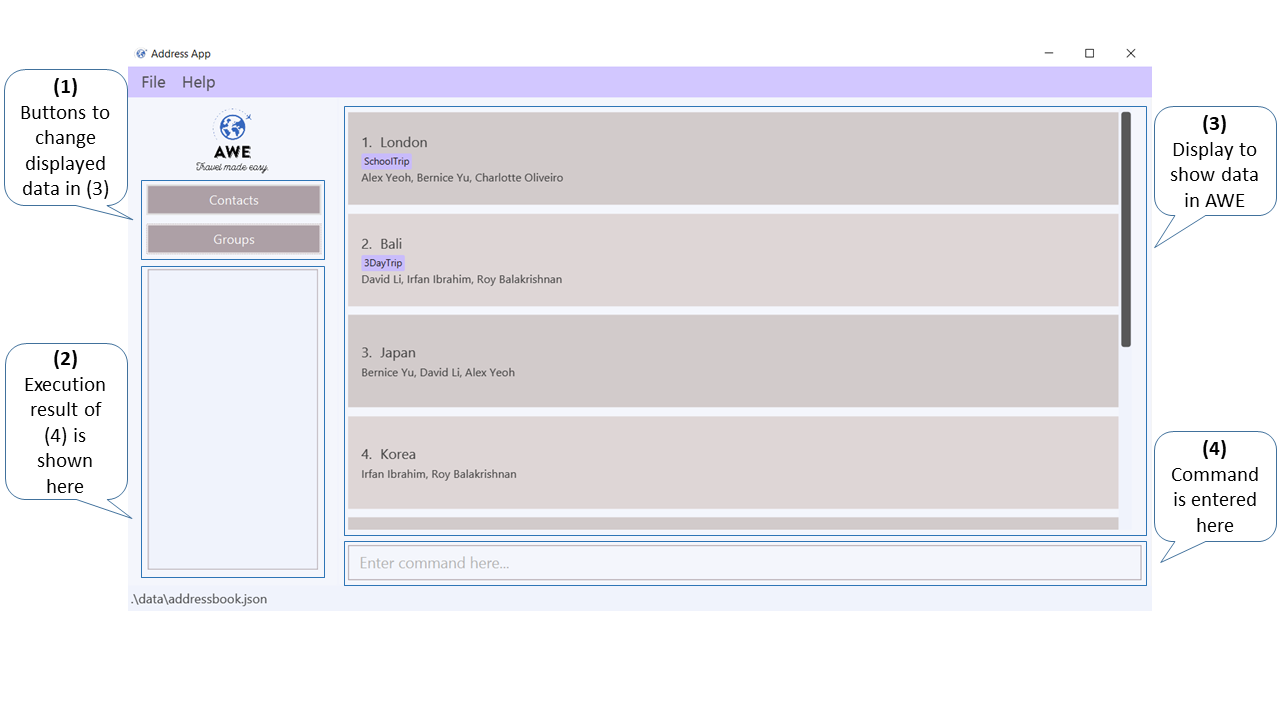
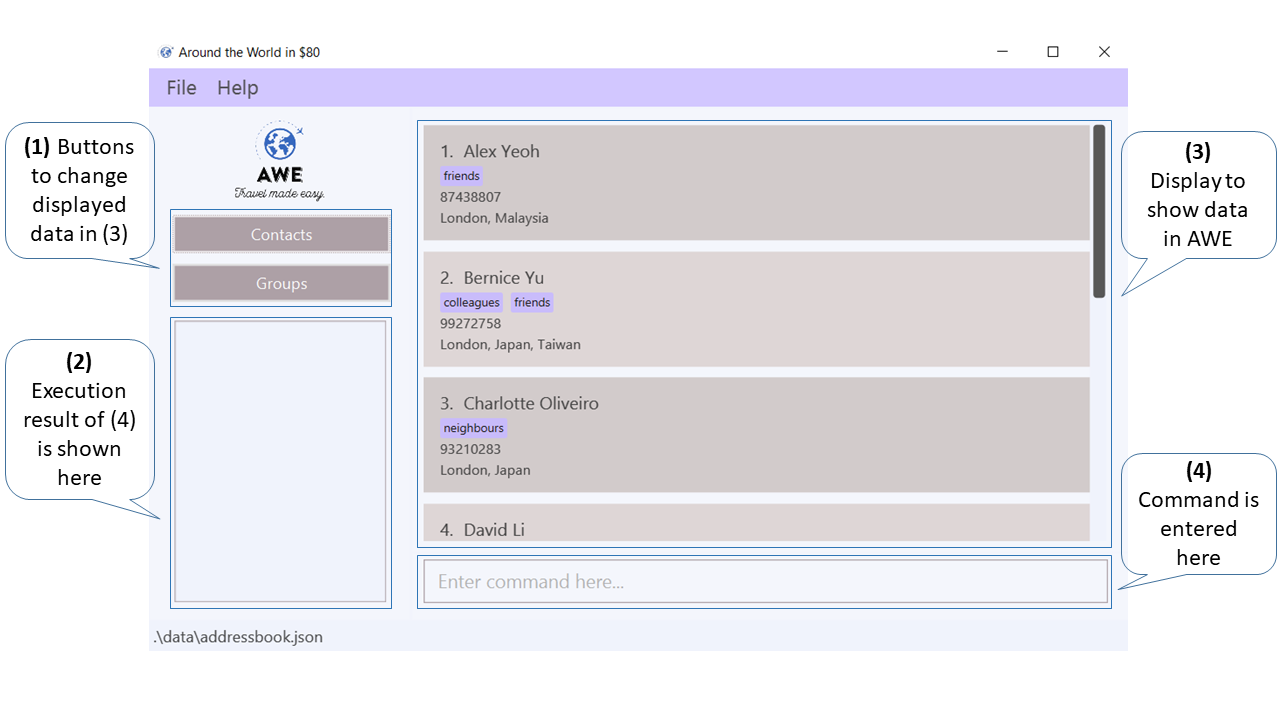
Update image and UG

diff --git a/docs/UserGuide.md b/docs/UserGuide.md
@@ -172,6 +172,9 @@ Format: `addcontact n/NAME p/PHONE_NUMBER [t/TAG]…`
 * Duplicate contacts cannot be added into AWE
 * Contacts are duplicate if they have the same name
 * NAME are case-sensitive, "Hans" and "hans" will be treated as 2 separate person. Refer to [FAQ](#4faq) for the rational behind this.
+* NAME are up to 50 characters only.
+* PHONE_NUMBER should have between 3 and 16 numbers.
+* Contact list will be displayed after the command succeeded.
 
 <div markdown="span" class="alert alert-primary">:bulb: **Tip:**
 A contact can have any number of tags (including 0)
@@ -193,6 +196,8 @@ Format: `editcontact INDEX [n/NAME] [p/PHONE] [t/TAG]…`
 * Existing values will be updated to the input values.
 * When editing tags, the existing tags of the contact will be removed i.e adding of tags is not cumulative.
 * You can remove all the contact’s tags by typing `t/` without specifying any tags after it.
+* NAME are up to 50 characters only.
+* PHONE_NUMBER should have between 3 and 16 numbers
 
 Examples:
 *  `editcontact 1 p/91234567` Edits the phone number of the 1st contact to be `91234567`.
@@ -256,6 +261,7 @@ Adds you as a member of the group by default.
 Format: `creategroup gn/GROUP_NAME n/NAME1 [n/NAME2] [n/NAME3]...[t/TAG1]`
 
 * GROUP_NAME is a mandatory field.
+* GROUP_NAME are up to 50 characters only.
 * A group with the same name as GROUP_NAME cannot exist for the creation of a group through this command. 
 * GROUP_NAME are case-sensitive, "Japan" and "japan" will be treated as 2 separate groups. Refer to [FAQ](#4faq) for the rational behind this.
 * At least one NAME is necessary.
@@ -411,6 +417,8 @@ Format: `expenses gn/GROUP_NAME`
 
 Examples: 
 * `expenses gn/London` shows all the expenses of the group named London.
+![result for 'expenses gn/London](images/ShowExpenseResult.png)
+
 
 #### 3.3.2. Adding a shared expense: `addexpense`
 Adds a shared expense to the specified travel group.
@@ -477,7 +485,7 @@ Format: `transactionsummary gn/GROUP_NAME`
 Examples:
 * `transactionsummary gn/Bali`
 * `transactionsummary gn/London`
-
+![result for 'transactionsummary gn/London](images/TransactionSummaryResult.png)
 
 #### 3.3.6. Calculating payments to make: `calculatepayments`
 Uses the net spend of the user on the trip to tabulate a fast set of payments to settle the debts between members of the group.
@@ -491,7 +499,7 @@ Format: `calculatepayments gn/GROUP_NAME`
 Examples:
 * `calculatepayments gn/Bali`
 * `calculatepayments gn/London`<br>
-  ![result for 'findcontacts Taiwan Malaysia'](images/CALCULATEPAYMENTSUI.png)
+  ![result for 'calculatepayments gn/London'](images/CalculatePaymentResult.png)
   
 **Note: When a `Person` is deleted from contacts or removed from the group, the functioning of this command does not change. The deleted person may still be part of the list of payments depending on the expenses they had previously.**
 
